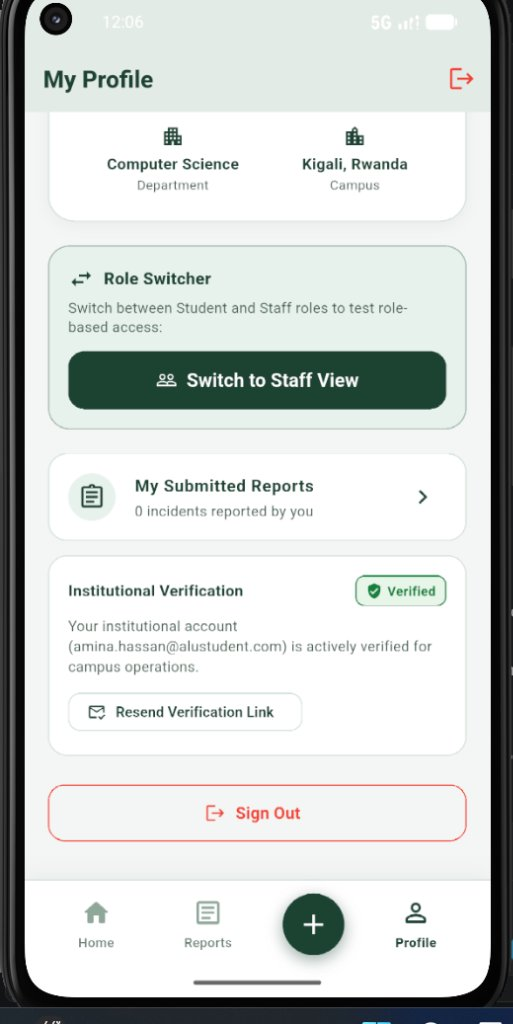
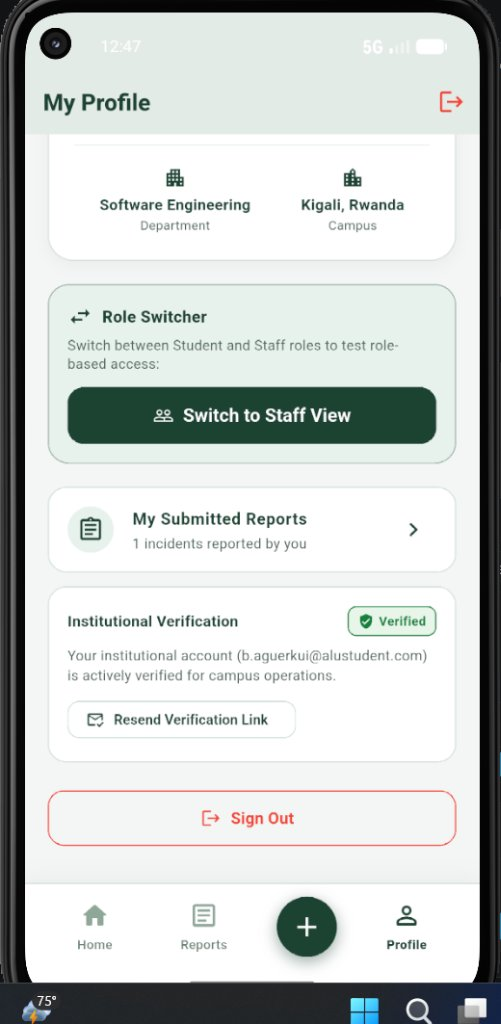
update app

Changed region(s): [[0.0, 0.0, 1.0, 1.0], [0.988, 0.7188, 1.0, 0.75], [0.8683, 0.2188, 0.8982, 0.25]]

diff --git a/TECHNICAL_REPORT.md b/TECHNICAL_REPORT.md
@@ -156,12 +156,12 @@ The figures below demonstrate the functional application running on an Android m
 <p align="center">
   <img src="docs/screenshots/6_feed_with_urgent_photo.jpg" width="180" alt="Live Feed with Urgent Badge and Photo" />
   &nbsp;&nbsp;
-  <img src="docs/screenshots/4_feed_reset_filter.jpg" width="180" alt="Search Feed & Filter Reset" />
+  <img src="docs/screenshots/5_profile_bior.jpg" width="180" alt="Student Profile with Bior Credentials" />
   &nbsp;&nbsp;
-  <img src="docs/screenshots/5_profile_verification.jpg" width="180" alt="Profile & Institutional Verification" />
+  <img src="docs/screenshots/5_profile_verification.jpg" width="180" alt="Profile with Institutional Verification" />
 </p>
 <p align="center">
-  <em>Figure 3: (a) Campus Incidents Feed displaying newly submitted report with camera photo evidence and red URGENT priority badge, (b) Empty search state with quick filter reset button, (c) Profile screen with institutional email verification badge and role switcher</em>
+  <em>Figure 3: (a) Campus Feed showing newly submitted report with camera photo evidence and red URGENT priority badge, (b) Student Profile displaying authenticated student identity (B AGUERKUI, b.aguerkui@alustudent.com), (c) Institutional verification card with active clearance badge and role switcher</em>
 </p>
 
 ---
